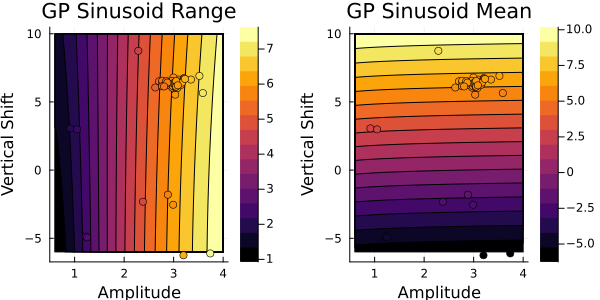
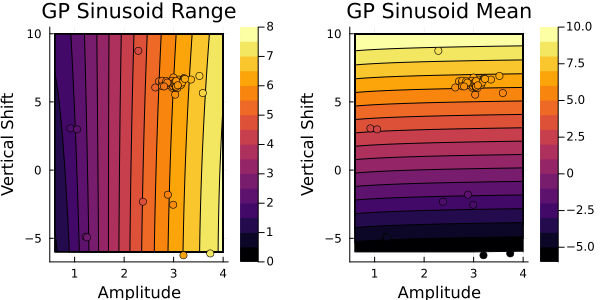
JOSS review: sinusoid examples and plots in paper (#298)
* Paper and docs Fig. 1 comparing true and observed signals: changed 6.99 -> 7.0 in legend; edited blue vertical line with arrows for observation range so it is now centered on the observed mean following reviewer comments.

* Paper and docs for contour plots showing how sinusoid outputs vary with respect to parameters, updated color limits to be fixed for all contour plots for easier comparisons

* Docs for the sampling using Random Features: add a table with mean and std of parameter values to directly compare values to GP results.

* Paper, updated sentence comparing ABC and CES to avoid making too strong a claim. Instead, just comment on some limiations of ABC and CES. Also include a reference to the the high dimensional chapter of the ABC Handbook.

diff --git a/paper.md b/paper.md
@@ -67,7 +67,7 @@ Computationally expensive computer codes for predictive modelling are ubiquitous
 
 In Julia there are a few tools for performing non-accelerated uncertainty quantification, from classical sensitivity analysis approaches, e.g., [UncertaintyQuantification.jl](https://zenodo.org/records/10149017), GlobalSensitivity.jl [@Dixit:2022], and MCMC, e.g., [Mamba.jl](https://github.com/brian-j-smith/Mamba.jl) or [Turing.jl](https://turinglang.org/). For computational efficiency, ensemble methods also provide approximate sampling (e.g., the Ensemble Kalman Sampler [@Garbuno-Inigo:2020b;@Dunbar:2022a]) though these only provide Gaussian approximations of the posterior.
 
-Accelerated uncertainty quantification tools also exist for the related approach of Approximate Bayesian Computation (ABC), e.g., GpABC [@Tankhilevich:2020] or [ApproxBayes.jl](https://github.com/marcjwilliams1/ApproxBayes.jl?tab=readme-ov-file); these tools both approximately sample from the posterior distribution. In ABC, this approximation comes from bypassing the likelihood that is usually required in sampling methods, such as MCMC. Instead, the goal of ABC is to replace the likelihood with a scalar-valued sampling objective that compares model and data. In CES, the approximation comes from learning the parameter-to-data map, then following this it calculates an explicit likelihood and uses exact sampling via MCMC. Some ABC algorithms also make use of statistical emulators to further accelerate sampling (GpABC). ABC can be used in more general contexts than CES, but suffers greater approximation error and more stringent assumptions, especially in multi-dimensional problems.
+Accelerated uncertainty quantification tools also exist for the related approach of Approximate Bayesian Computation (ABC), e.g., GpABC [@Tankhilevich:2020] or [ApproxBayes.jl](https://github.com/marcjwilliams1/ApproxBayes.jl?tab=readme-ov-file); these tools both approximately sample from the posterior distribution. In ABC, this approximation comes from bypassing the likelihood that is usually required in sampling methods, such as MCMC. Instead, the goal of ABC is to replace the likelihood with a scalar-valued sampling objective that compares model and data. In CES, the approximation comes from learning the parameter-to-data map, then following this it calculates an explicit likelihood and uses exact sampling via MCMC. Some ABC algorithms also make use of statistical emulators to further accelerate sampling (GpABC). Although flexible, ABC encounters challenges due to the subjectivity of summary statistics and distance metrics, that may lead to approximation errors particularly in high-dimensional settings [@Nott:2018]. CES is more restrictive due to use of an explicit Gaussian likelihood, but also leverages this structure to deal with high dimensional data.
 
 Several other tools are available in other languages for a purpose of accelerated learning of the posterior distribution or posterior sampling. Two such examples, written in python, approximate the log-posterior distribution directly with a Gaussian process: [PyVBMC](https://github.com/acerbilab/pyvbmc) [@Huggins:2023] additionaly uses variational approximations to calculate the normalization constant, and [GPry](https://github.com/jonaselgammal/GPry) [@Gammal:2022], which iteratively trains the GP with an active training point selection algorithm. Such algorithms are distinct from CES, which approximates the parameter-to-data map with the Gaussian process, and advocates ensemble Kalman methods to select training points. 
 

diff --git a/docs/src/examples/sinusoid_example.md b/docs/src/examples/sinusoid_example.md
@@ -402,10 +402,10 @@ println("Vertical shift mean: ", mean(constrained_posterior["vert_shift"]), ", s
 This gives:
 
 
-| parameters         | mean    | std |
-| :---------------- | :------: | :----: |
-| amplitude         |   3.0382 | 0.2861  |
-| vert_shift        |   6.3897 | 0.4601  |
+| parameters        | mean     | std     |
+| :---------------- | :------: | :----:  |
+| amplitude         |   3.0382 | 0.2880  |
+| vert_shift        |   6.3774 | 0.4586  |
 
 This is in agreement with the true $\theta=(3.0, 7.0)$ and with the observational covariance matrix we provided $\Gamma=0.2 * I$ (i.e., a standard deviation of approx. $0.45$). `CalibrateEmulateSample.jl` has built-in plotting
 recipes to help us visualize the prior and posterior distributions.  Note that these are the
@@ -432,6 +432,11 @@ $\theta_2$ below, with the marginal distributions on each axis.
 
 We can repeat the sampling method using the random features emulator instead of the Gaussian
 process and we find similar results: 
+
+| parameters        | mean     | std    |
+| :---------------- | :------: | :----: |
+| amplitude         |   3.3210 | 0.7216 |
+| vert_shift        |   6.3986 | 0.5098 |
 
 ![RF_2d_posterior](../assets/sinusoid_MCMC_hist_RF.png)
 
